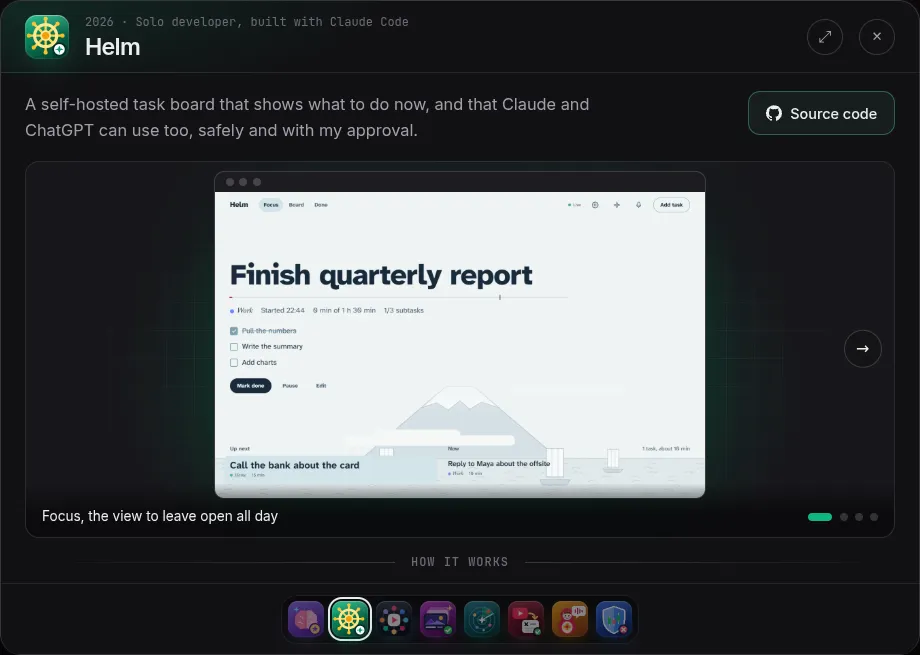
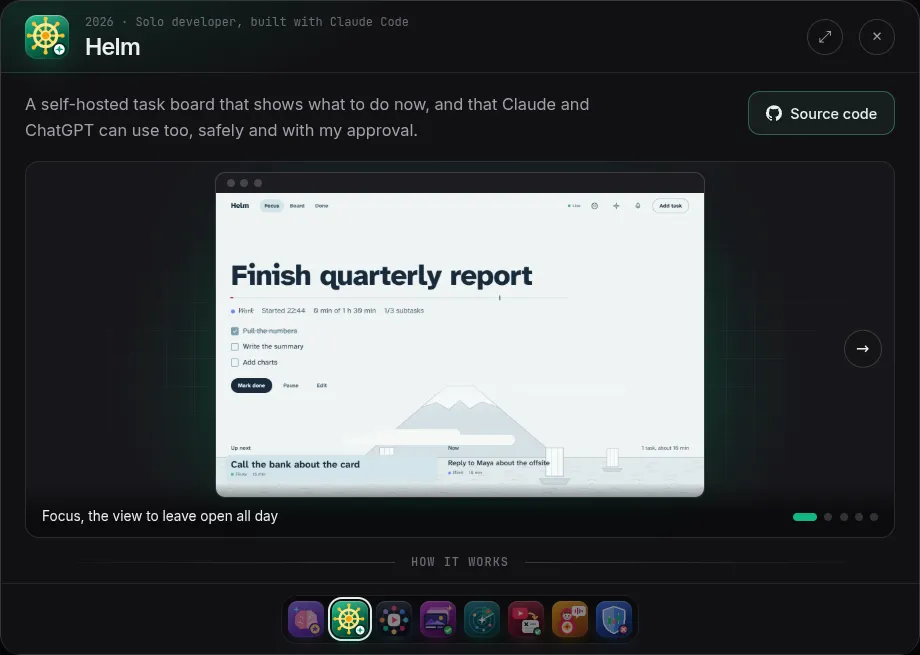
Lab: side-by-side screenshot option (drops big and edge-to-edge); Helm themes as two phone slides

diff --git a/src/data/lab-variants.ts b/src/data/lab-variants.ts
@@ -5,4 +5,4 @@
  * variant with :global(html[data-lab='<id>']) … or read a `variant` prop.
  * Once a pick is applied for real, remove its ids and content from here.
  */
-export const labVariants: string[] = ['skills-proof', 'skills-core', 'skills-stack', 'shot-compact', 'shot-tall', 'shot-bleed'];
+export const labVariants: string[] = ['skills-proof', 'skills-core', 'skills-stack', 'shot-compact', 'shot-side'];

diff --git a/src/content/projects/helm.md b/src/content/projects/helm.md
@@ -23,10 +23,15 @@ gallery:
     alt: The board with one coloured bin per project, tasks grouped by Now, Soon and Someday
     caption: The board, one bin per project
   - type: image
-    src: /media/helm/themes.webp
+    src: /media/helm/themes-1.webp
     frame: none
-    alt: Helm's Focus view on a phone in six themes, each with its own landscape
-    caption: Six themes on a phone
+    alt: Helm's Focus view on phones in the Harbor, Desert and Beach themes
+    caption: Themes on a phone, Harbor, Desert and Beach
+  - type: image
+    src: /media/helm/themes-2.webp
+    frame: none
+    alt: Helm's Focus view on phones in the Deep forest, Prairie and Night themes
+    caption: Deep forest, Prairie and Night
 skills: [TypeScript, React, Node.js, Hono, SQLite, MCP, Claude Code, OpenAI API, LLMs, Voice AI, Human-in-the-loop, Real-time Systems, PWA, Docker, Raspberry Pi, Tailscale]
 workflow:
   - title: Capture
